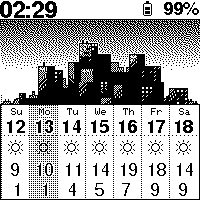
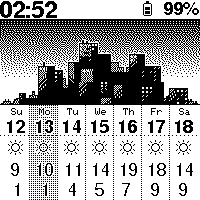
Update

Changed region(s): [[0.0, 0.0, 1.0, 0.39], [0.0, 0.51, 1.0, 1.0], [0.18, 0.69, 0.24, 0.78]]

diff --git a/src/CityWeather.cpp b/src/CityWeather.cpp
@@ -231,7 +231,7 @@ void CityWeather::drawWatchFace()
       fillRect(display, 1+i*28, 105, 28, 200-105);
     }
 
-    if (i < 7) {
+    if (i > 0) {
       drawLine (display, 1+i*28, 95, 1+i*28, 200);
     }
     
@@ -247,7 +247,8 @@ void CityWeather::drawWatchFace()
     printCentered (display, (String)day, (i * 28) + 14, 132);
 
     // weather
-    display.drawBitmap(8+i*28, 140, image_download__copy__bits, 15, 16, GxEPD_BLACK);
+    drawOutlinedBitmap(display, 8+i*28, 140, image_download__copy__bits, 15, 16, GxEPD_BLACK);
+    // display.drawBitmap(8+i*28, 140, image_download__copy__bits, 15, 16, GxEPD_BLACK);
 
     // tMax & tMin
     display.setFont(&FreeSans9pt7b);
@@ -257,8 +258,8 @@ void CityWeather::drawWatchFace()
 
   drawLine (display, 0, 135, 200, 135, 0, 4); // day bottom
 
-  display.drawLine(0, 105, 0, 200, GxEPD_BLACK);
-  display.drawLine(199, 105, 199, 200, GxEPD_BLACK);
-  display.drawLine(1, 199, 200, 199, GxEPD_BLACK);
+  // display.drawLine(0, 105, 0, 200, GxEPD_BLACK);
+  // display.drawLine(199, 105, 199, 200, GxEPD_BLACK);
+  // display.drawLine(1, 199, 200, 199, GxEPD_BLACK);
 
 };

diff --git a/src/Adafruit_GFX_ext.h b/src/Adafruit_GFX_ext.h
@@ -1,5 +1,20 @@
 #include <Watchy.h>
 
+void drawOutlinedBitmap(Adafruit_GFX &d, int16_t x, int16_t y, const uint8_t bitmap[], int16_t w, int16_t h, uint16_t color) {
+  int borderColor = color == GxEPD_BLACK ? GxEPD_WHITE : GxEPD_BLACK;
+  
+  d.setTextColor(borderColor);
+  for (int8_t dx = -1; dx <= 1; dx++) {
+    for (int8_t dy = -1; dy <= 1; dy++) {
+      if (dx != 0 || dy != 0) {
+        d.drawBitmap(x + dx, y + dy, bitmap, w, h, borderColor);
+      }
+    }
+  }
+
+  d.drawBitmap(x, y, bitmap, w, h, color);
+}
+
 void drawOutlinedText(Adafruit_GFX &d, int16_t x, int16_t y, const String &text, int textColor) {
 
   int borderColor = textColor == GxEPD_BLACK ? GxEPD_WHITE : GxEPD_BLACK;
